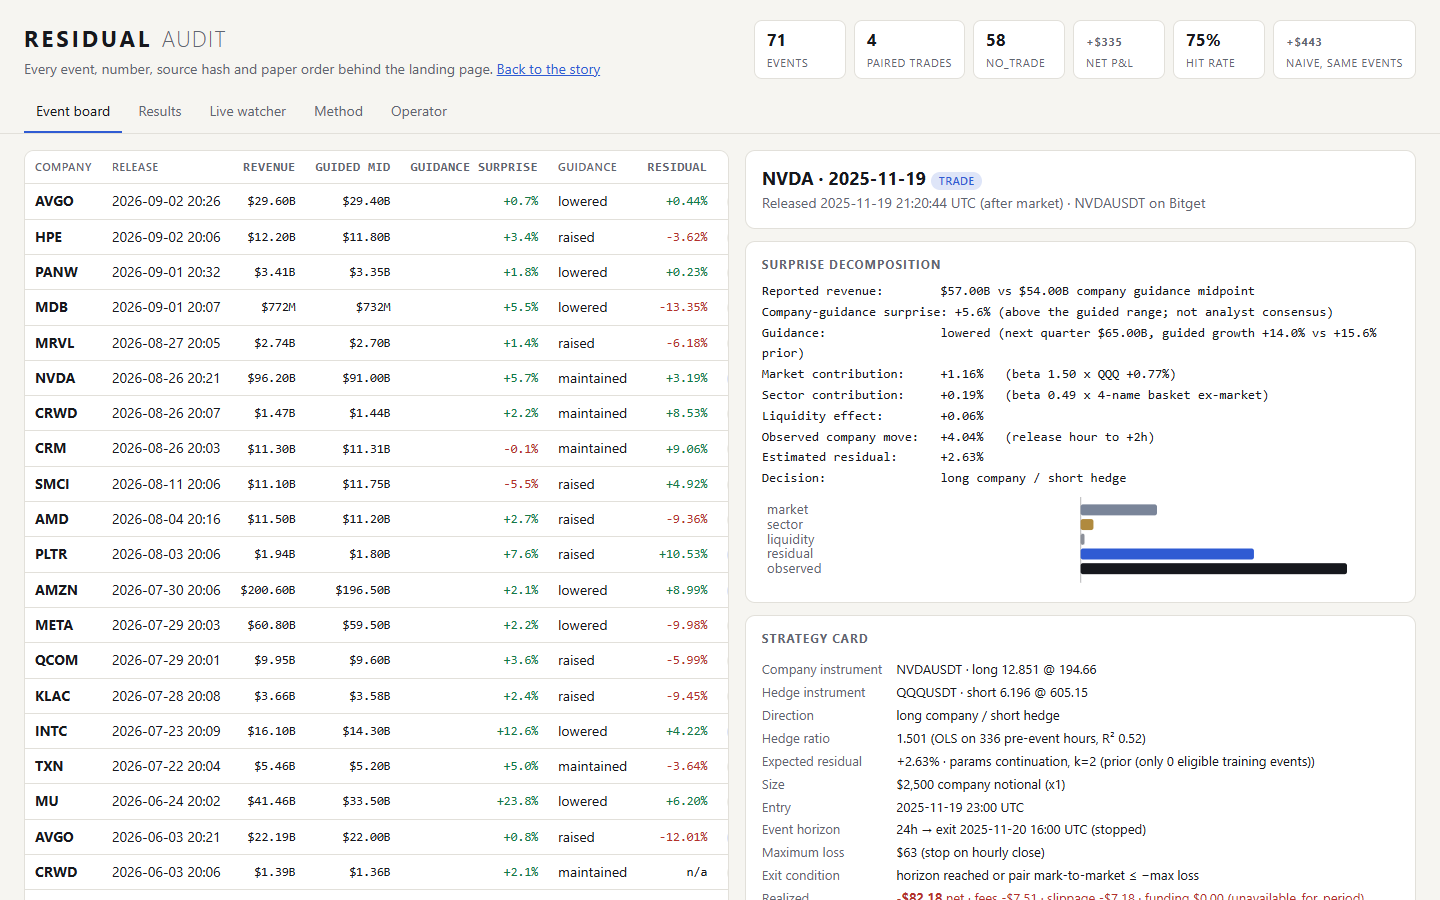
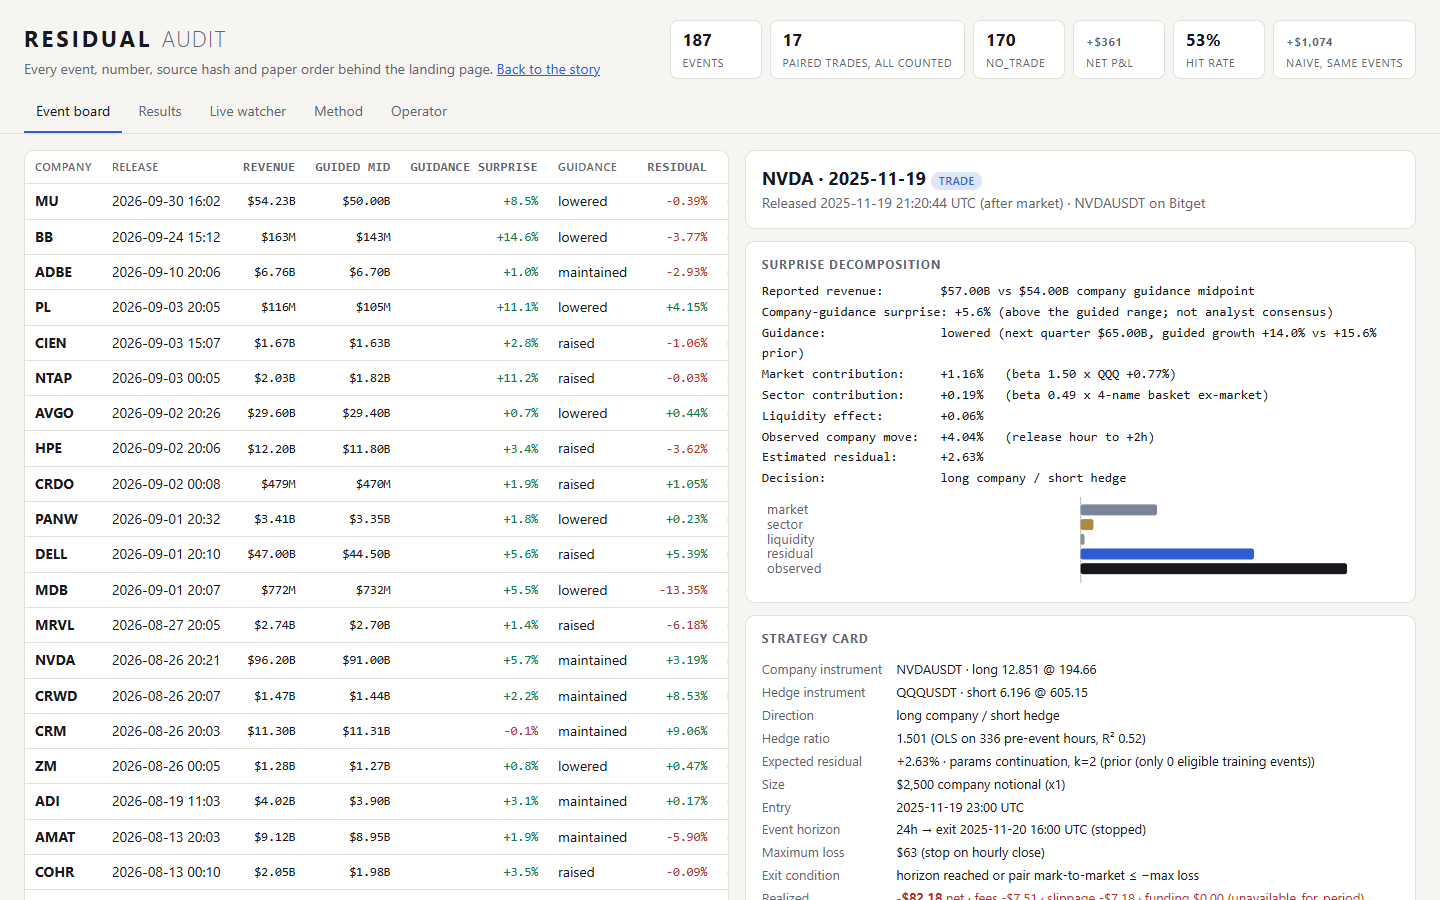
README: the watcher runs on GitHub Actions; fresh screenshots; proof chart card pinned beside the stats; audit header uses the all trades view the README leads with

diff --git a/web/app.js b/web/app.js
@@ -27,10 +27,11 @@ document.querySelectorAll(".tabs button").forEach(b => b.onclick = () => {
 });
 
 function render() {
-  const s = D.summary.residual, n = D.summary.naive_same_events;
+  // headline view: every trade counted, missing funding charged at the worst rate (same as the README)
+  const s = D.summary_conservative_funding.residual, n = D.summary_conservative_funding.naive_same_events;
   const rej = D.rows.filter(r => r.decision.decision !== "TRADE").length;
   $("#kpis").innerHTML = [
-    ["Events", D.rows.length], ["Paired trades", s.trades], ["NO_TRADE", rej],
+    ["Events", D.rows.length], ["Paired trades, all counted", s.trades], ["NO_TRADE", rej],
     ["Net P&L", `<span class="${cls(s.total_net_pnl)}">${usd(s.total_net_pnl, 0)}</span>`],
     ["Hit rate", s.hit_rate == null ? "n/a" : (s.hit_rate * 100).toFixed(0) + "%"],
     ["Naive, same events", `<span class="${cls(n.total_net_pnl)}">${usd(n.total_net_pnl, 0)}</span>`],

diff --git a/web/body.css b/web/body.css
@@ -208,3 +208,5 @@ code{font-family:ui-monospace,Menlo,Consolas,monospace;font-size:.9em;background
 #demo-strat{align-items:start}
 @media (max-width:860px){.vtable{display:block;overflow-x:auto}.vtable td:first-child,.ratios td:first-child{white-space:normal;min-width:130px}.vtable small{white-space:normal}}
 .ratios table.prereg{margin-top:18px}
+.proof-grid>.card:has(#curve){align-self:start;position:sticky;top:96px}
+@media (max-width:980px){.proof-grid>.card:has(#curve){position:static}}

diff --git a/README.md b/README.md
@@ -222,11 +222,13 @@ python -m residual keyrun             # full Bitget Demo check: auth, coverage, 
 python -m residual demo-strategy-trade --mode demo --notional 100
 ```
 
-Windows, to keep the watcher running silently and publishing to the site:
+### The live watcher
 
-```powershell
-powershell -ExecutionPolicy Bypass -File scripts\install_watcher.ps1
-```
+The watcher runs on GitHub Actions ([`.github/workflows/watcher.yml`](.github/workflows/watcher.yml)), every 10 minutes: it checks EDGAR for new earnings releases across all 46 companies, decides TRADE or NO_TRADE with the frozen method, manages Bitget Demo pairs, and commits its whole state back to the repository, because a runner keeps nothing between runs. When it catches a new release it replays the study before publishing, so CI and the site always match the committed data. Every check is in [`data/live_log.jsonl`](data/live_log.jsonl).
+
+It needs four repository secrets: `ANTHROPIC_API_KEY` and the three `BITGET_DEMO_API_*` values (`gh secret set -f .env.local`). A manual run can also sign in to Bitget Demo read only, to confirm the keys work from GitHub (`gh workflow run watcher.yml -f demo_check=true`).
+
+Run only one watcher at a time. A local Windows task exists for running it off a laptop instead (`scripts\install_watcher.ps1`), but two watchers would race on the same logs and Demo positions.
 
 ## Audit
 
